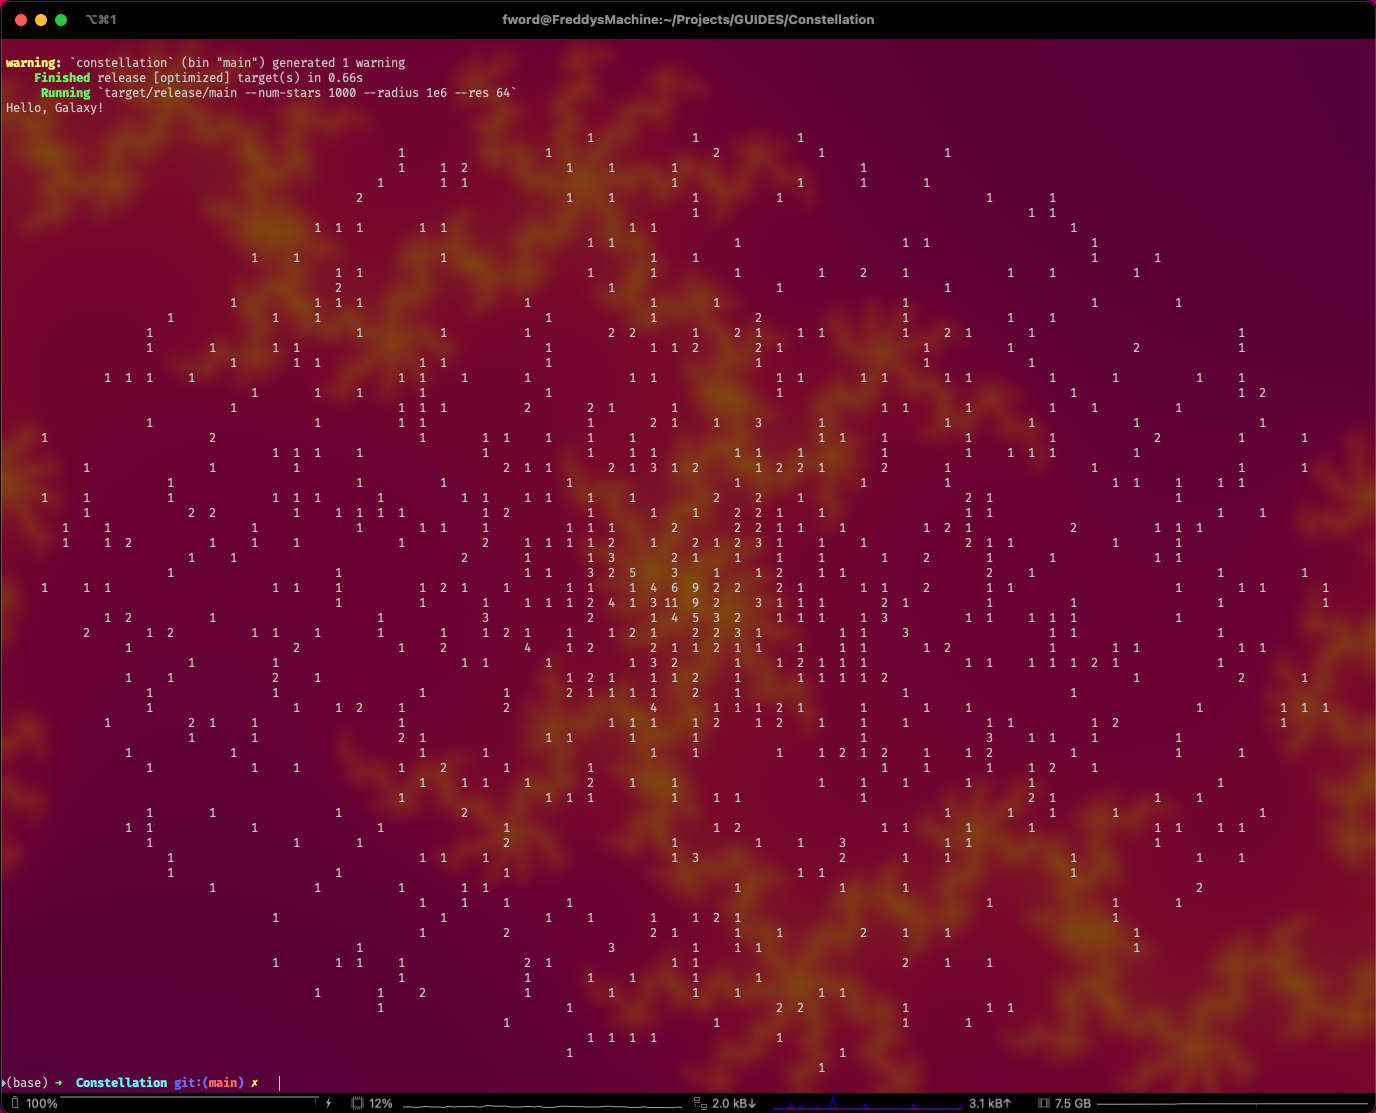
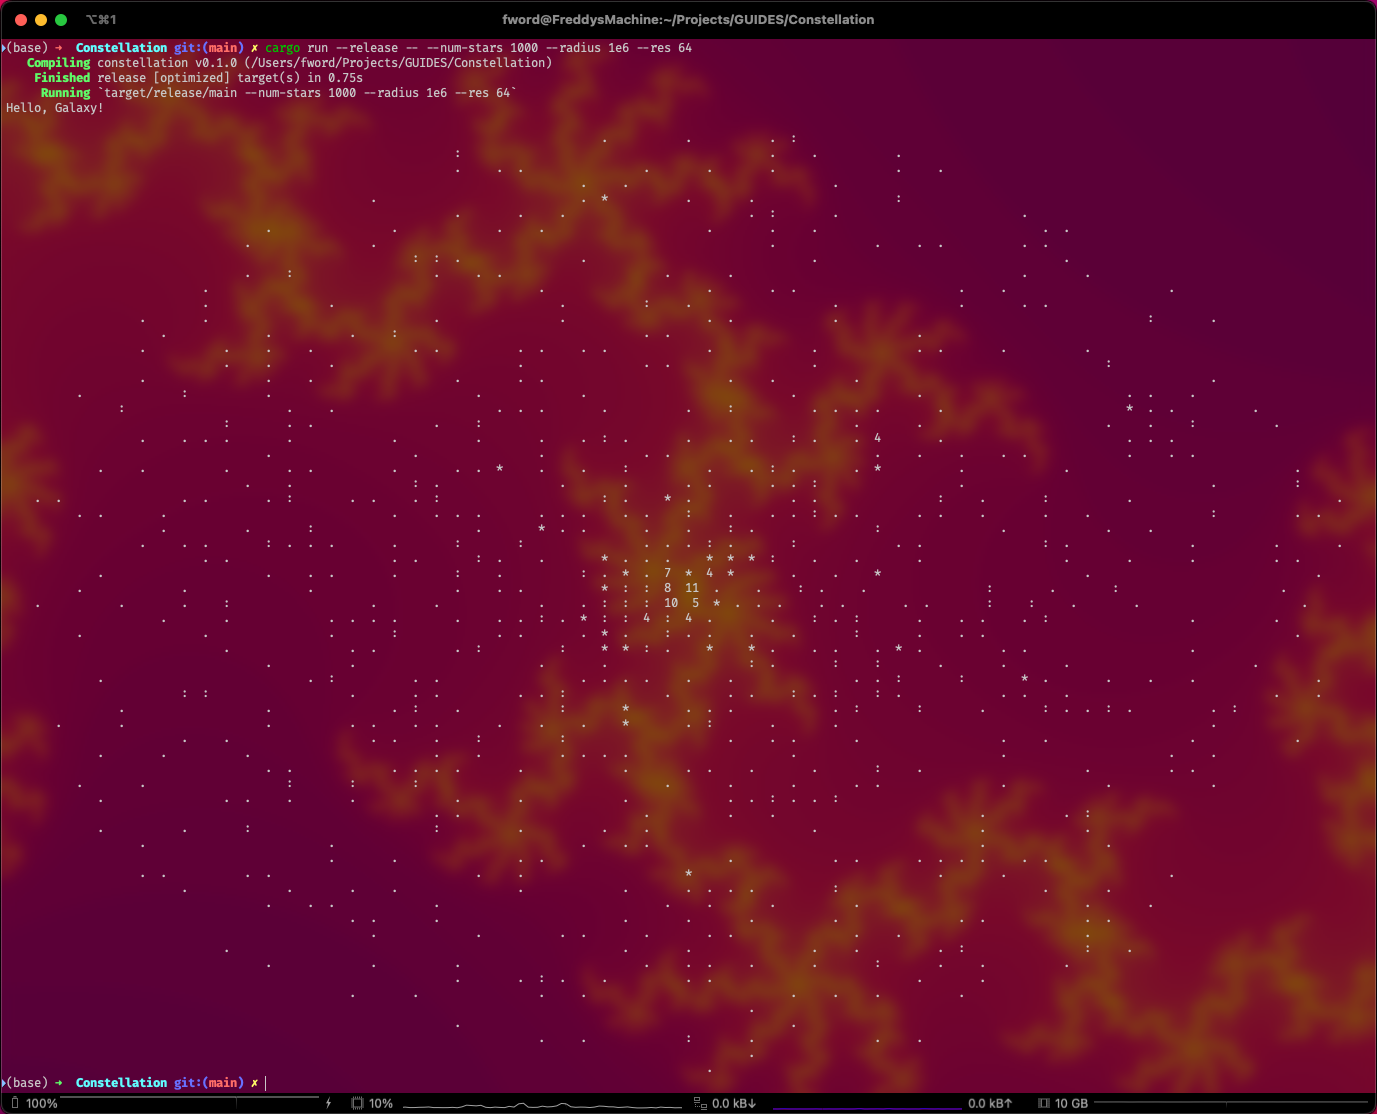
Improved display method

diff --git a/src/bin/main.rs b/src/bin/main.rs
@@ -1,5 +1,6 @@
 use clap::Parser;
 use ndarray::Array2;
+use std::{thread::sleep, time};
 
 use constellation::Galaxy;
 
@@ -22,21 +23,31 @@ fn main() {
     let args = Args::parse();
 
     let galaxy = Galaxy::new(args.num_stars, args.radius);
-    let count = galaxy.count(args.res);
 
-    display(&count);
+    loop {
+        let count = galaxy.count(args.res);
+        display(&count);
+        sleep(time::Duration::from_millis(100));
+        break;
+    }
 }
 
 /// Print the galaxy count to the terminal.
 fn display(count: &Array2<u8>) {
-    for row in count.genrows() {
+    let mut buffer = String::new();
+
+    for row in count.rows() {
         for &val in row.iter() {
-            if val == 0 {
-                print!("   ");
-            } else {
-                print!("{0:>3}", val);
+            match val {
+                0 => buffer.push_str("   "),
+                1 => buffer.push_str(" . "),
+                2 => buffer.push_str(" : "),
+                3 => buffer.push_str(" * "),
+                x => buffer.push_str(&format!(" {} ", x)),
             }
         }
-        println!();
+        buffer.push('\n');
     }
+
+    print!("\x1B[2J\x1B[1;1H{}", buffer);
 }
